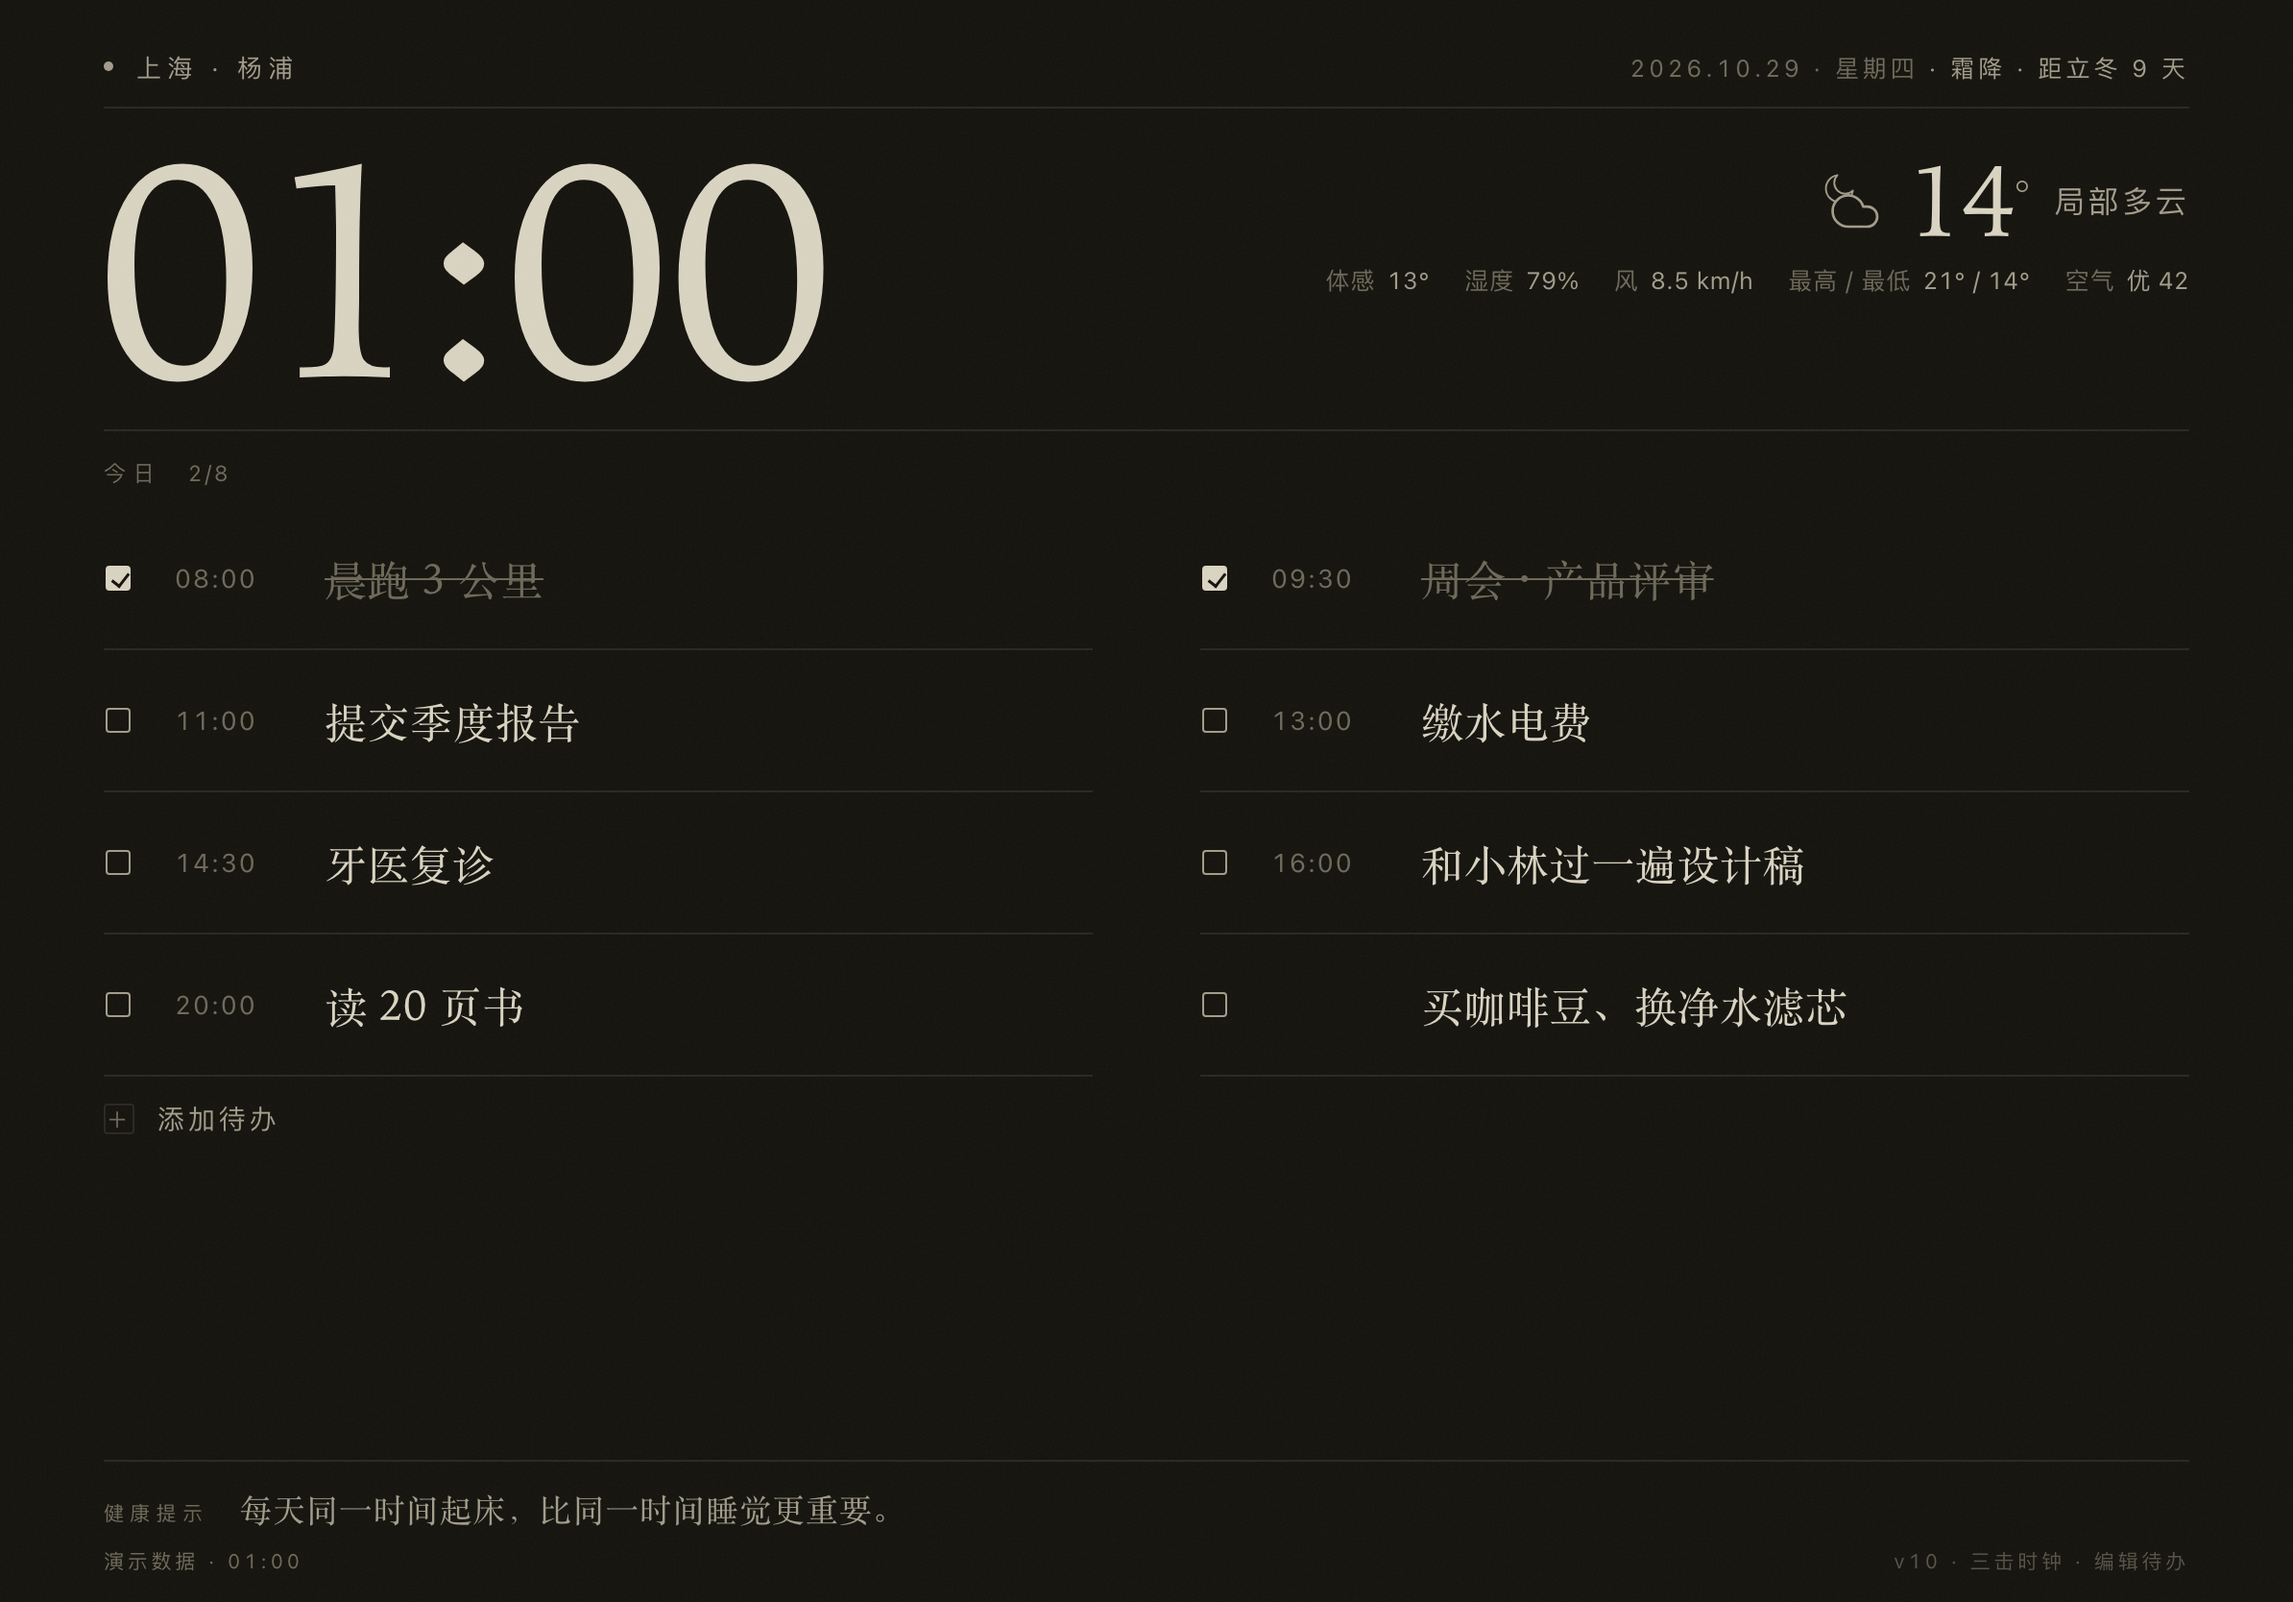
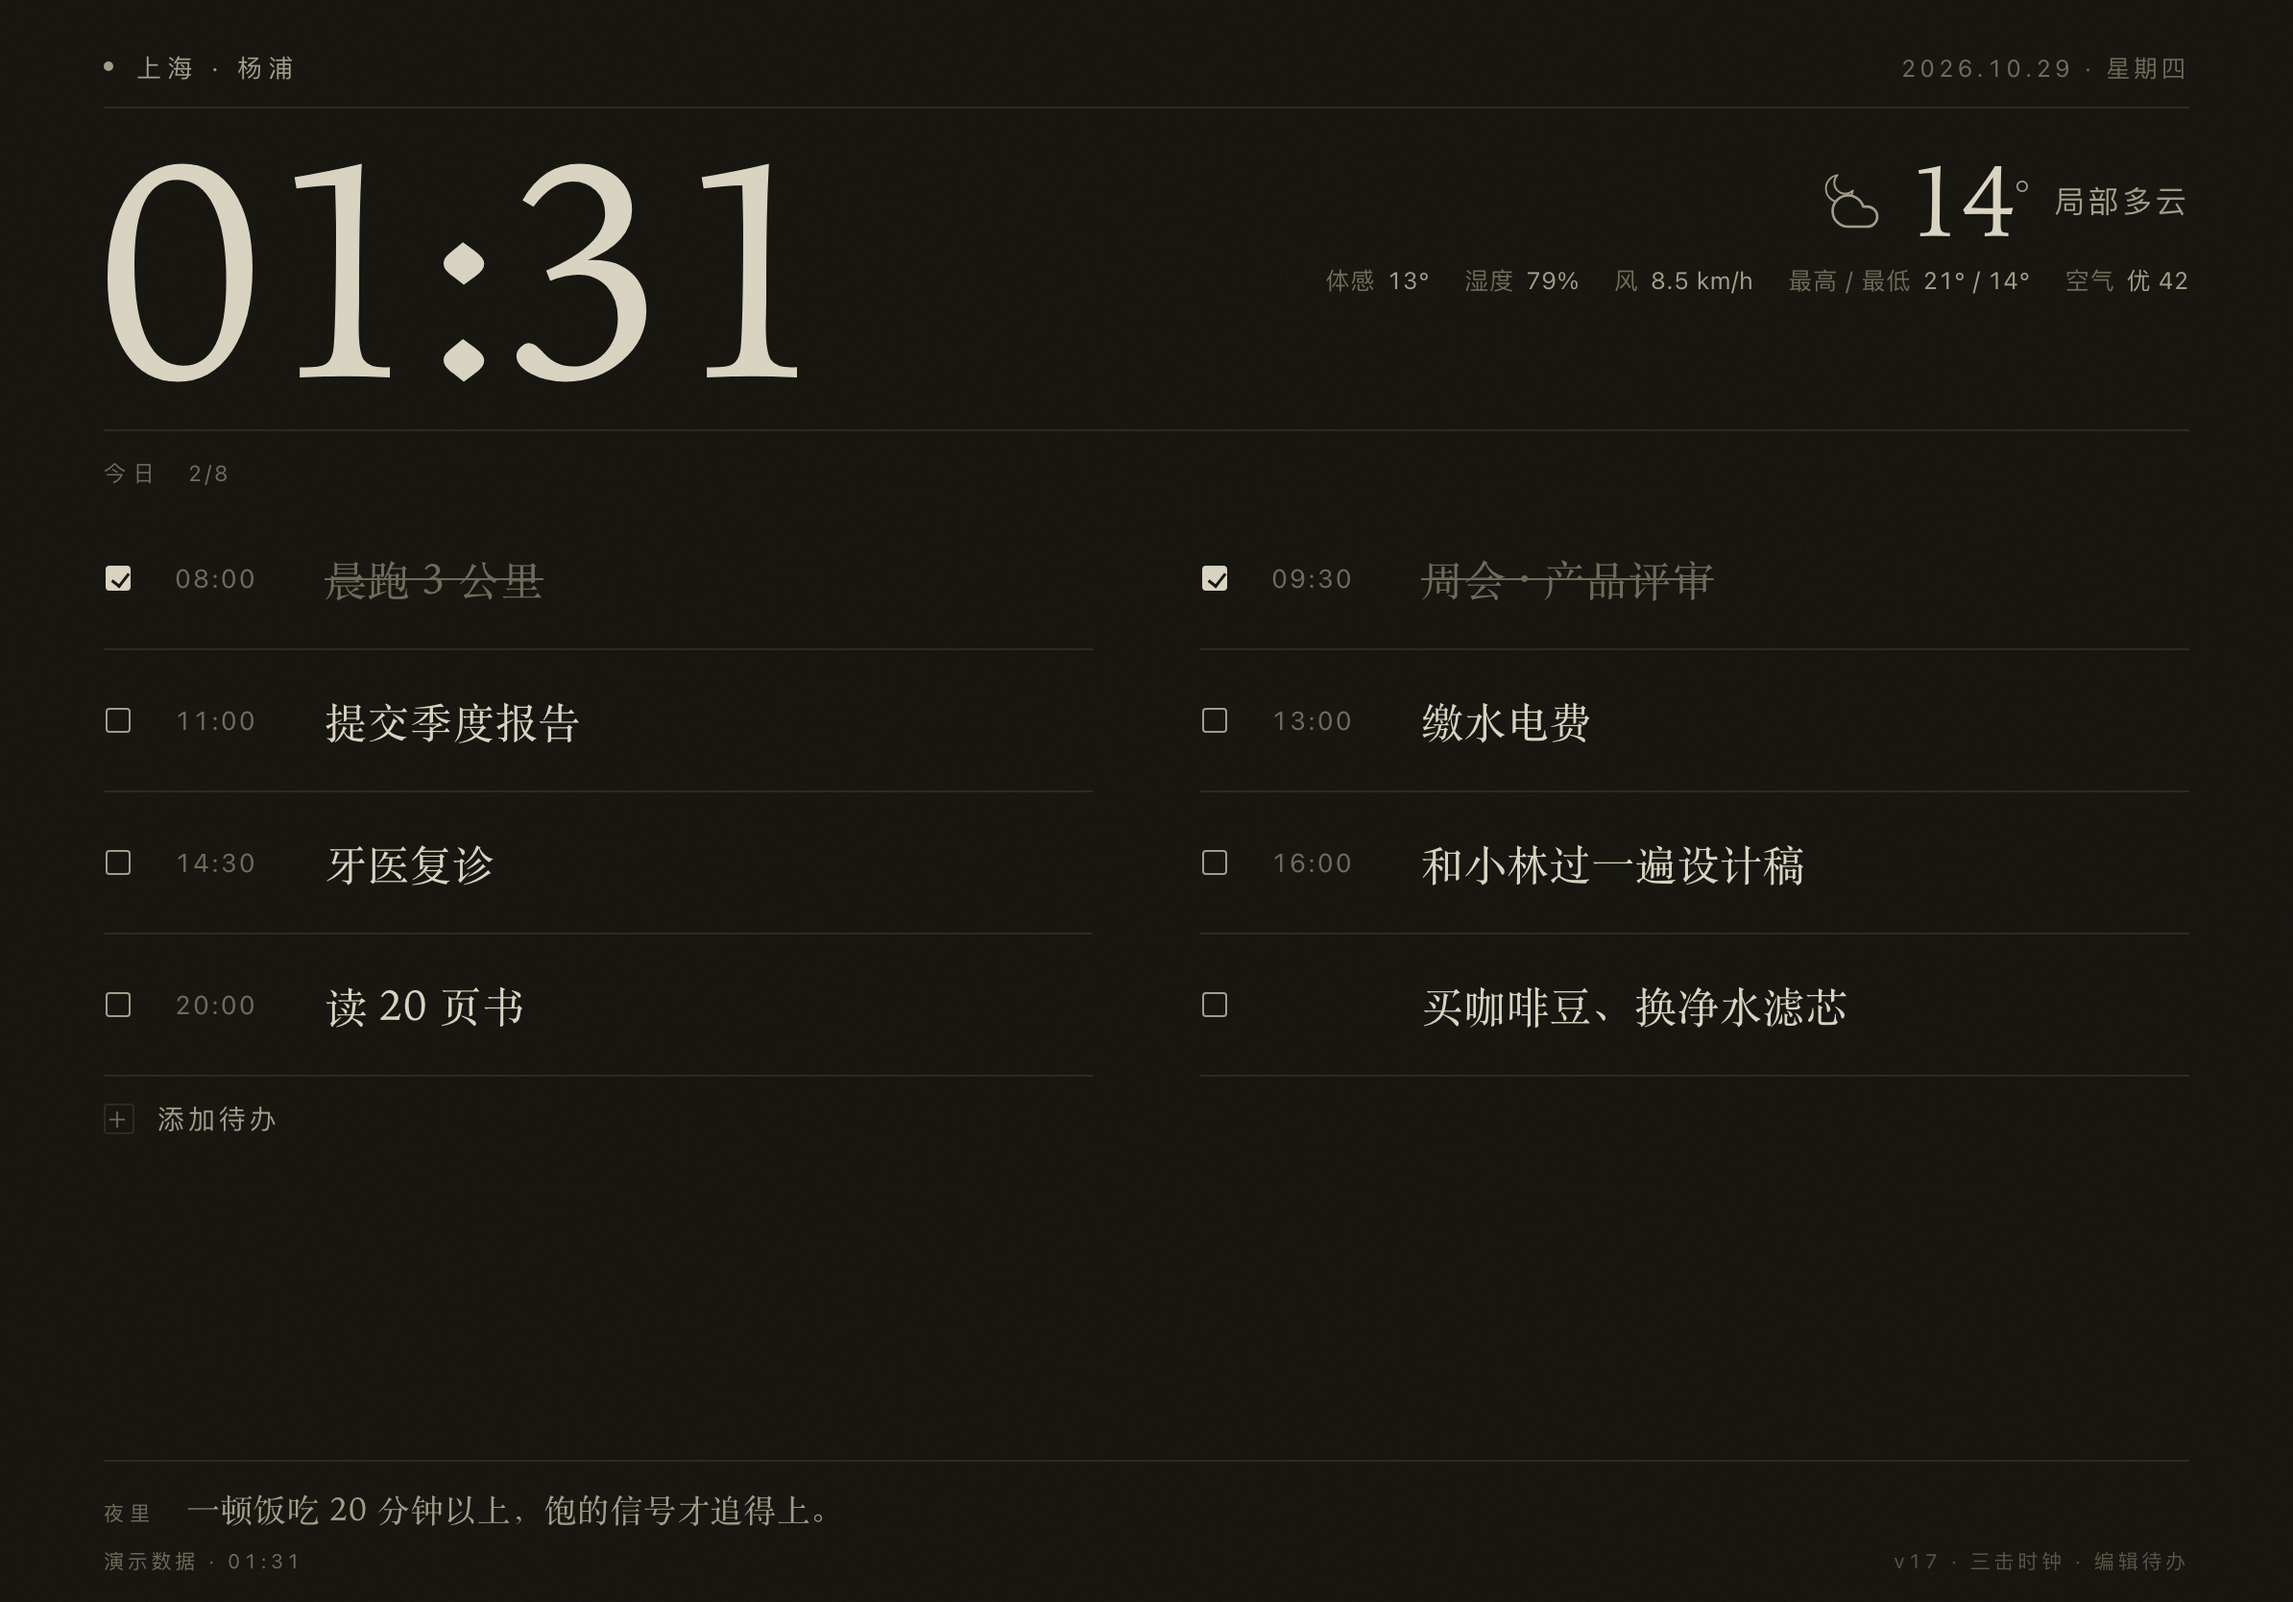
去掉顶部日期行的节气显示（v17）

diff --git a/index.html b/index.html
@@ -69,7 +69,6 @@
   .loc{font-size:13px;letter-spacing:.24em;color:var(--ink-2);white-space:nowrap}
   .loc .mark{display:inline-block;width:5px;height:5px;border-radius:50%;background:var(--ink-2);vertical-align:3px;margin-right:12px}
   .daynum{font-size:12.5px;letter-spacing:.16em;color:var(--muted);font-variant-numeric:tabular-nums;white-space:nowrap}
-  .daynum .term{color:var(--ink-2)}
 
   /* ---------- 时间 + 天气 ---------- */
   #hero{
@@ -693,7 +692,7 @@
     ]
   };
 
-  const BUILD = "v16";   // 改版时 +1，页脚可见，用来确认主屏 App 拿到的是哪一版
+  const BUILD = "v17";   // 改版时 +1，页脚可见，用来确认主屏 App 拿到的是哪一版
 
   const params = new URLSearchParams(location.search);
   const DEMO_MODE = params.has("demo");
@@ -822,89 +821,6 @@
   /* =====================================================================
      6. 时钟 / 日期 / 夜间
      ===================================================================== */
-  /* ---------- 二十四节气（Meeus 太阳视黄经，误差 <15 分钟） ---------- */
-  const TERM_NAMES = ["小寒","大寒","立春","雨水","惊蛰","春分","清明","谷雨","立夏","小满","芒种","夏至",
-                      "小暑","大暑","立秋","处暑","白露","秋分","寒露","霜降","立冬","小雪","大雪","冬至"];
-
-  function sunLon(jd) {
-    const T = (jd - 2451545.0) / 36525;
-    const L0 = 280.46646 + 36000.76983 * T + 0.0003032 * T * T;
-    const M = (357.52911 + 35999.05029 * T - 0.0001537 * T * T) * Math.PI / 180;
-    const C = (1.914602 - 0.004817 * T - 0.000014 * T * T) * Math.sin(M)
-            + (0.019993 - 0.000101 * T) * Math.sin(2 * M)
-            + 0.000289 * Math.sin(3 * M);
-    const om = (125.04 - 1934.136 * T) * Math.PI / 180;
-    const lon = L0 + C - 0.00569 - 0.00478 * Math.sin(om);
-    return ((lon % 360) + 360) % 360;
-  }
-
-  function lonDelta(jd, target) {
-    const d = sunLon(jd) - target;
-    return ((d + 180) % 360 + 360) % 360 - 180;
-  }
-
-  // year 年第 idx 个节气（小寒 = 0）的精确时刻，返回毫秒
-  function termInstant(year, idx) {
-    const target = (285 + idx * 15) % 360;
-    let jd = Date.UTC(year, 0, 1) / 86400000 + 2440587.5;
-    for (let i = 0; i < 366; i++) {
-      const d0 = lonDelta(jd, target), d1 = lonDelta(jd + 1, target);
-      if (d0 < 0 && d1 >= 0) {
-        let l = jd, h = jd + 1;
-        for (let k = 0; k < 40; k++) {
-          const m = (l + h) / 2;
-          if (lonDelta(m, target) < 0) l = m; else h = m;
-        }
-        return ((l + h) / 2 - 2440587.5) * 86400000;
-      }
-      jd += 1;
-    }
-    return NaN;
-  }
-
-  // 该节气在北京时间那一天的 00:00（用 UTC 毫秒表示，方便直接比日期）
-  function termDay(year, idx) {
-    const d = new Date(termInstant(year, idx) + 8 * 3600000);
-    return Date.UTC(d.getUTCFullYear(), d.getUTCMonth(), d.getUTCDate());
-  }
-
-  let termInfoCache = { key: "", info: null };
-
-  function termInfoNow() {
-    const p = nowParts();
-    const key = p.y + "-" + p.m + "-" + p.d;
-    if (termInfoCache.key === key && termInfoCache.info) return termInfoCache.info;
-
-    const today = Date.UTC(p.y, p.m - 1, p.d);
-    const list = [];
-    for (let i = 0; i < 24; i++) list.push({ t: termDay(p.y, i), i: i });
-    if (today < list[0].t) list.unshift({ t: termDay(p.y - 1, 23), i: 23 });
-    if (today >= list[list.length - 1].t) list.push({ t: termDay(p.y + 1, 0), i: 0 });
-
-    let prev = list[0], next = list[1];
-    for (let i = 0; i < list.length; i++) {
-      if (list[i].t <= today) prev = list[i];
-      else { next = list[i]; break; }
-    }
-    if (!next) next = prev;
-
-    const info = {
-      prev: prev,
-      next: next,
-      daysToNext: Math.max(0, Math.round((next.t - today) / 86400000)),
-      since: Math.max(0, Math.round((today - prev.t) / 86400000))
-    };
-    termInfoCache = { key: key, info: info };
-    return info;
-  }
-
-  function termText() {
-    const info = termInfoNow();
-    const onDay = info.since === 0;
-    return (onDay ? "今日" : "") + TERM_NAMES[info.prev.i] +
-      " · 距" + TERM_NAMES[info.next.i] + " " + info.daysToNext + " 天";
-  }
-
   let lastMinute = "";
 
   function renderClock(force) {
@@ -915,8 +831,7 @@
     lastMinute = hm;
 
     $("#clock").textContent = hm;
-    $("#daynum").innerHTML = p.y + "." + pad2(p.m) + "." + pad2(p.d) + " · " + p.wd +
-      ' <span class="term">· ' + esc(termText()) + "</span>";
+    $("#daynum").textContent = p.y + "." + pad2(p.m) + "." + pad2(p.d) + " · " + p.wd;
     $("#locName").textContent = CONFIG.location.name;
 
     applyNight(p.hh);

diff --git a/README.md b/README.md
@@ -1,6 +1,6 @@
 # 墨水屏提示板 · iPad Pro 11"
 
-把闲置 iPad 变成一块常亮的桌面提示板，横屏摆在桌上或墙上。版面是单列自上而下：**顶部**地点与日期（含节气与“距下一节气还有几天”），**右上**今日天气，**中间**是**两列**的今日待办，**底部**健康提示与状态行——待办是主角。
+把闲置 iPad 变成一块常亮的桌面提示板，横屏摆在桌上或墙上。版面是单列自上而下：**顶部**地点与日期，**右上**今日天气，**中间**是**两列**的今日待办，**底部**健康提示与状态行——待办是主角。
 
 整个方案就是一个 HTML 文件：天气走免费接口，**待办全部存在这台 iPad 本地**。没有后端、没有账号、没有订阅。
 
@@ -144,13 +144,7 @@ location: { name: "上海 · 徐汇", lat: 31.1884, lon: 121.4336, tz: "Asia/Sha
 
 **备份**：统计页底部有「导出备份 / 恢复备份」。iPad 上导出会走系统分享面板，可以直接存进「文件」或 iCloud Drive；要在新设备上恢复，选那个 JSON 即可，会覆盖当前清单和全部历史。旁边一行会显示「上次备份：X 天前」，超过一个月没备份就去点一下。
 
-### 5. 节气
-
-顶部日期行会带出**当前节气**和**距下一个节气还有几天**，例如 `2026.10.29 · 星期四 · 霜降 · 距立冬 9 天`；节气当天显示成「今日霜降」。
-
-它不联网、不查表，是页面里用 Meeus 太阳视黄经公式现算的（找黄经到达 15° 整数倍的时刻，再换算成北京时间），24 个节气都在里面，未来年份也能算，误差在十几分钟以内——只有恰好在午夜前后几分钟交节时才可能差一天。
-
-### 6. 健康提示
+### 5. 健康提示
 
 底部那行字跟着**此刻几点**变，上面再压一层天气：
 
@@ -181,7 +175,7 @@ location: { name: "上海 · 徐汇", lat: 31.1884, lon: 121.4336, tz: "Asia/Sha
 
 池子规模：时段专属 8–9 条，通用池 30 条，同一半程内一天换一条。
 
-### 7. 外观
+### 6. 外观
 
 ```js
 display: {
